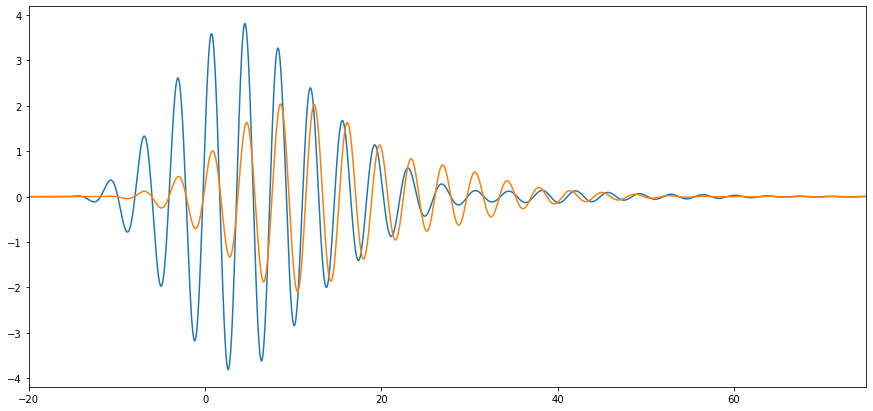
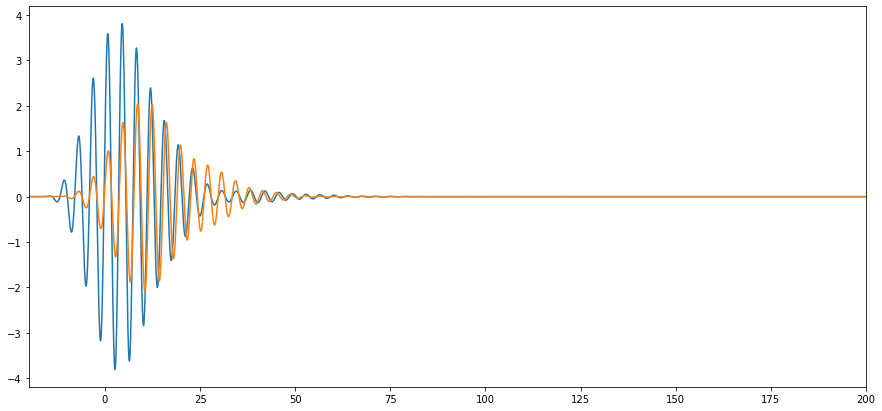
Update documentation

diff --git a/searchindex.js b/searchindex.js
@@ -1,1 +1,1 @@
-Search.setIndex({docnames:["NOTE-2022-03-30-short-cable-impedance-tline-vs-lumped-element/ipynb/note","NOTE-2022-04-04-hemoglobin-refractive-index-vis-nir/ipynb/note","NOTE-2022-04-12-surface-plasmon-polariton-mode-dispersion/ipynb/note","NOTE-2022-11-27-coupled-oscillators/ipynb/note-coupled-electronic-oscillators","intro"],envversion:{"sphinx.domains.c":2,"sphinx.domains.changeset":1,"sphinx.domains.citation":1,"sphinx.domains.cpp":4,"sphinx.domains.index":1,"sphinx.domains.javascript":2,"sphinx.domains.math":2,"sphinx.domains.python":3,"sphinx.domains.rst":2,"sphinx.domains.std":2,"sphinx.ext.intersphinx":1,"sphinxcontrib.bibtex":9,sphinx:56},filenames:["NOTE-2022-03-30-short-cable-impedance-tline-vs-lumped-element/ipynb/note.ipynb","NOTE-2022-04-04-hemoglobin-refractive-index-vis-nir/ipynb/note.ipynb","NOTE-2022-04-12-surface-plasmon-polariton-mode-dispersion/ipynb/note.ipynb","NOTE-2022-11-27-coupled-oscillators/ipynb/note-coupled-electronic-oscillators.ipynb","intro.md"],objects:{},objnames:{},objtypes:{},terms:{"0":[1,3],"0001596883604688631":1,"0003276370399088923":1,"00044974056016454784":1,"0005":1,"00075":3,"001":3,"0012860219407195951":1,"0018672741066254246":1,"0019050":3,"0022849466126867255":1,"003":1,"0032017439368348674":1,"005":1,"02":3,"028102":1,"0423123685089879":1,"05":[1,3],"05065286186732952":1,"055001":1,"06384447614514038":3,"075":3,"08":1,"08749002311336371":1,"0x7f358df5abe0":[],"0x7f3c68b2cee0":[],"0x7f42e42b82e0":[],"0x7f894c6b4bb0":[],"0x7f94f4eb1550":3,"0x7f9ee4825b80":[],"0x7fa820354a00":[],"0x7faf1a2a6fd0":[],"0x7fbeec5f5940":[],"0x7fca0d4cbfd0":[],"1":[1,3],"10":[1,3],"100":3,"1000":3,"10000":3,"100000":3,"10071405367043634":1,"10e":3,"1100":3,"1103":1,"1117":1,"1170":3,"1200":[],"1243790859791647":1,"1298":3,"13":3,"135":3,"1364":1,"14":[1,3],"14704537168607396":1,"15":3,"150":1,"15e":[],"17":3,"18":[1,3],"18889927026316364":1,"1e":[1,3],"1e12":3,"1e3":3,"1e9":3,"1j":[1,3],"2":[1,3],"20":3,"200":3,"2004":1,"2013":1,"2021":1,"225":3,"23":3,"25":3,"250":[],"25663706e":3,"3":[1,3],"300":[1,3],"3000":3,"303":1,"306846395875313":1,"35":3,"375":1,"38":1,"388":1,"392":1,"3d":3,"4":[1,3],"40":3,"400":1,"4000":[],"405":1,"4070597404994256":1,"424549":1,"425726398284944":1,"450":1,"5":[1,3],"50":3,"500":[],"5000":1,"50000":1,"515":3,"56792830490946j":3,"6":3,"600":[],"631259334585216":3,"64":3,"64500":1,"673970424077956":1,"7":[1,3],"7360986753257135":1,"75":3,"7948599085013563":1,"8":[1,3],"800":1,"848645349512824":1,"85418782e":3,"9":[1,3],"92":1,"9204617175718748":1,"93":1,"9309077417124625":1,"do":3,"final":1,"float":3,"import":[1,3],"int":1,"return":[1,3],"short":4,"static":3,"true":[],"while":[2,3],A:1,For:3,If:3,In:[1,2,3],It:[0,1,3],One:3,That:3,The:[0,1,3],Their:1,Then:1,There:1,These:[3,4],__init__:3,_eps_inf:1,_frq1:1,_frq:1,_gam1:1,_gam:1,_rang:1,_sig1:1,_sig:1,_susc:1,aalder:1,ab:[1,3],about:[1,2,3],abov:[1,3],absorpt:1,across:3,actual:3,ad:1,add:3,add_subplot:[1,3],address:1,adjust:3,after:3,aim:1,all:[1,3],along:[1,2],alpha:[1,3],alreadi:3,also:[1,3],alwai:0,amount:3,an:3,anaconda3:3,analysi:[2,3,4],ani:[1,3],append:[1,3],appendix:1,appli:[1,3],approach:[0,1,2,3],approxim:[3,4],ar:[0,1,3,4],arg:1,arrai:[1,3],asarrai:3,associ:1,assum:[],attach:[],ax1:[1,3],ax2:[1,3],ax:3,axi:3,b:[1,3],backward:3,base:[1,3],bear:3,behav:3,below:[1,3],bend:3,berggren:1,beta:[1,3],better:3,between:3,bi:1,biconcav:1,biolog:1,biomed:1,block:1,blood:4,blue:1,both:[0,1,3],brett:1,bucklei:1,buckleynanoantennadesignenhanced2021:1,build:3,c11:1,c1:3,c21:1,c2:3,c:[1,3],cabl:4,calcul:0,can:[1,3],cannot:[],capabl:3,capacit:3,capacitor:3,capict:3,captur:3,cari:3,carrier:1,cast:3,cbook:3,cc:[1,3],ceil:1,cell:4,central:[1,3],characterist:3,choic:3,circuit:3,cite:1,clean:3,close:3,coax:0,code:[1,3],coeffici:1,collect:4,color:1,comparison:3,complet:1,complex:[1,3],complexwarn:3,comput:1,constant:3,contain:1,conveni:[1,3],converg:1,convert:4,core:1,correspond:3,cos2puls:3,coudl:3,could:[1,3],coupl:4,coupler:3,couplinb:[],cours:3,cp:3,creat:3,csv:1,cubic:1,current:1,d:[1,3],dai:4,data:3,dataset:1,de:1,decai:3,def:1,defin:[1,3],deform:1,delai:3,delet:[],denot:3,depend:1,deriv:[1,4],describ:[1,3],descript:3,design:1,desir:1,determin:[1,3],develop:1,devic:3,differ:[1,3],directli:[1,3],diretli:3,dirk:1,discard:3,discuss:1,dispers:[1,4],distanc:3,dkeathlei:3,document:1,doi:1,don:0,done:1,drew:1,drive:3,dt:3,due:3,durat:3,dw_int:1,dw_prime:1,e:[1,3],e_suscept:1,each:3,easi:0,easili:[1,3],effect:3,egbert:1,electr:3,electromagnet:[1,2,3],electron:4,element:[3,4],emphas:3,enhanc:1,enough:1,entir:1,envelop:1,ep:1,eps0:3,eps_calc:1,eps_drude_lorentz:1,eps_mea:1,eps_meas_o2:1,eps_opt:1,eps_opt_o2:1,epsilon:1,epsilon_0:3,epsr:3,eq:1,equat:3,equival:1,esp:3,essenti:3,evalu:1,eventu:2,everi:3,everyth:3,exact:[],examin:[0,3],execut:4,exp:3,experi:3,experiment:[1,3],experimenta:3,extend:[1,3],f:3,f_k:1,faber:1,factor:1,far:3,fc:3,fdtd:1,femtosecond:3,fft:3,fftfreq:3,field:[1,3],fig:[1,3],figur:[1,3],file:1,find:[1,2],finit:3,first:1,fit:3,fix:1,flip:1,focu:[1,2],follow:[1,2],fontsiz:3,form:1,formal:3,format:1,forward:3,found:1,free:[],freespac:3,freqrang:1,frequenc:1,frq:1,full:[1,3,4],fwhm:3,g:[1,3],gam:1,gamma1:3,gamma2:3,gamma:[1,3],gemert:1,gener:[0,1,2,3],get:3,given:3,go:[1,3],greater:1,green:1,h:3,handwritten:4,have:[1,3],hb:1,hb_eps_inf:1,hb_extinction_data:1,hb_frq1:1,hb_frq2:1,hb_frq3:1,hb_gam1:1,hb_gam2:1,hb_gam3:1,hb_rang:1,hb_sig1:1,hb_sig2:1,hb_sig3:1,hb_susc:1,hbo2:1,hbo2_eps_inf:1,hbo2_frq1:1,hbo2_frq2:1,hbo2_frq3:1,hbo2_frq4:1,hbo2_gam1:1,hbo2_gam2:1,hbo2_gam3:1,hbo2_gam4:1,hbo2_rang:1,hbo2_sig1:1,hbo2_sig2:1,hbo2_sig3:1,hbo2_sig4:1,hbo2_susc:1,help:2,hemoglobin:4,here:[1,3],high:3,highlight:1,home:3,hooper:1,hope:4,host:1,how:1,howev:[0,1,3],hyperspectr:1,i12f:3,i1:3,i1f:3,i21f:3,i2:3,i2f:3,i3f:3,i4f:3,i:[0,1,2,3,4],ifft:3,ik:1,imag:[1,3],imaginari:3,imbed:1,imped:[3,4],incid:3,includ:[1,3],incorpor:1,increas:1,incred:3,index:4,induc:3,induct:3,inform:1,input:[1,3],insid:1,instanc:1,instead:3,integr:1,integrand_1:1,integrand_2:1,integrand_3:1,interest:1,interfac:2,interp1d:1,interpol:1,introductori:3,invari:1,io:1,its:3,j:1,jbo:1,josa:1,josab:1,journal:1,juli:1,just:[0,1],k_hb:1,k_hb_prime_1:1,k_hb_prime_2:1,k_hb_prime_3:1,k_hbo2:1,kappa:1,karl:1,keathlei:1,keep:3,kind:1,known:1,kramer:4,kronig:4,l1:3,l2:3,l:3,label:[1,3],labels:3,laboratori:[1,3],lambda_:3,later:3,lb1:3,lb2:3,lc:3,least:3,least_squar:1,leeuwen:1,left:3,legend:[1,3],lei:1,length:3,letter:1,lib:3,light:[1,3],like:[1,3],limit:0,linalg:3,line:4,linear:3,linspac:[1,3],liter:1,load:[1,3],loadmat:1,log:3,longer:3,look:3,lorentziansuscept:1,loss:3,lp:3,lt1:3,lt2:3,lump:[3,4],m:[1,3],macroscop:3,mai:[1,3,4],make:3,mani:1,martin:1,mat:1,mat_nam:1,match:3,mathrm:3,matplotlib:[1,3],matrix:1,mauric:1,max:[1,3],max_nfev:1,mean:1,measur:1,medium:1,method:1,microscop:1,might:4,mik:1,min:1,mind:3,mode:4,model:[1,3],modifi:3,monoton:1,more:[0,3],motiv:3,move:3,mp:1,mu0:3,mu_0:3,mu_:1,must:1,my:4,n:[1,3],n_0:1,n_1:1,n_2:1,n_3:1,n_kk:1,n_prime:1,n_prime_o2:1,nanoantenna:1,nanomet:3,natur:3,nd:3,need:[1,3],network:3,never:3,nm:1,normal:1,note:[0,1,2],notebook:4,now:[1,3],np:[1,3],num:1,number:1,numer:1,numpi:[1,3],o:1,observ:3,offer:1,offset:1,often:1,omega:[1,3],onc:[],one:[1,4],onli:[1,3],optic:1,optim:1,oscil:4,other:[1,4],our:3,outlin:3,output:1,over:[1,3],p0:1,p1:3,p2:3,p:1,p_set:1,packag:[1,3],pair:3,paramet:[1,3],paramt:3,part:[1,3],particular:1,particularli:1,past:3,path:[1,3],pcsi:1,pdf:[0,4],perfect:3,perform:1,permeabl:3,permitt:[1,3],phase:[1,3],phasedelai:3,phenomenolog:3,phillip:1,physic:[1,3],physical_constants_si:1,physrevlett:1,pi:[1,3],ping:1,place:3,planar:2,plasmon:[3,4],plot3d:3,plot:[1,3],plt:[1,3],point:[1,3],polariton:4,possibl:3,power:3,prahl:1,predict:3,principl:3,print:[1,3],problem:3,proce:[],procedur:[1,3],profil:3,project:3,propag:3,properti:[1,3],proport:3,provid:1,pulse_funct:3,pure:3,purpos:1,py:3,pyplot:[1,3],python3:3,quantit:[1,3],quit:3,r1:3,r2:3,r:3,radiat:3,rang:1,rb1:3,rb2:3,rc:3,re:[1,3],real:[1,3],realiti:3,realli:3,recov:[],red:4,refer:3,reflect:3,refract:4,relev:3,remain:3,remaind:1,res_o2:1,resembl:3,reset:1,residu:1,resist:3,resolut:1,resolv:1,reson:3,respect:1,respons:3,review:1,right:3,rt1:3,rt2:3,same:[0,1],satur:1,scale:[1,3],scatter:1,scipi:1,sco:1,scott:1,second:1,section:1,see:[0,1,3],seem:3,seen:3,sens:3,sensit:1,septemb:1,seri:1,sert:3,set:[1,3],set_size_inch:[1,3],set_titl:3,set_xlabel:[1,3],set_xlim:3,set_ylabel:[1,3],setup:1,sever:3,shape:[1,3],should:[1,3],shouldn:0,show:[0,1],shown:3,side:3,sig:1,sigma:1,similar:3,simpli:[1,4],simplifi:3,simul:1,sinc:[0,3],singl:1,sio:1,site:3,size:[1,3],sketch:3,small:1,so:[1,3],solut:1,solutiond:1,solv:3,some:4,sourc:3,space:[1,3],specif:1,specimen:1,spectra:1,speed:3,split:3,sqrt:[1,3],squared_error:1,squeez:1,start:3,step:[1,3],str:1,straightforward:0,strike:3,studi:3,style:4,subscript:3,substanc:1,suggest:1,sum1:1,sum2:1,sum3:1,surfac:4,suscept:1,sy:[1,3],system:3,t:[1,4],tabl:3,take:1,taken:3,tau1:3,tau2:3,tau:3,tempor:3,term:1,tese:[],text:3,than:1,thei:[1,3],them:[],thi:[0,1,2,3],thing:3,think:[2,3],third:1,those:[1,3],though:3,three:1,through:1,thu:1,tick_param:3,time:[1,3],todo:3,togeth:3,ton:1,tool:1,transmiss:0,transpos:3,trapz:1,travel:2,tune:3,twice:3,two:[0,1],um_scal:1,unit:1,unoxygen:1,up:3,us:[0,3,4],v1:3,v1f:3,v1o:3,v1of:3,v2:3,v2f:3,v2o:3,v2of:3,v:3,v_1:3,v_2:3,v_:3,valid_freq_rang:1,valu:3,van:1,variabl:3,varieti:1,vector:1,veloc:3,veri:[1,3],vg12:3,vg12f:3,vg1:3,vg1f:3,vg1t:3,vg21:3,vg21f:3,vg2:3,vg2f:3,vg2t:3,view_init:3,vin1:3,vin1f:3,vin2:3,vin2f:3,vo12:[],vo12f:3,vo21:[],vo21f:3,voltag:3,vp1f:[],vp2f:[],vplus1f:3,vplus2f:3,vs:4,w1:3,w2:3,w:[1,3],w_0:1,w_norm:1,w_norm_0:1,w_norm_ev:1,w_norm_p1:1,w_norm_p2:1,w_norm_prime_1:1,w_norm_prime_2:1,w_norm_prime_3:1,w_prime:1,wa:1,wai:1,want:1,waveform:3,wavelength:[1,3],wc:3,we:[1,3],websit:1,well:3,were:3,what:[1,3],when:3,where:[1,3],wherev:3,which:3,whole:1,why:[0,3],widget:3,width:3,wire:3,work:[3,4],workspac:1,wres1:3,wres2:3,x:[1,3],xlabel:[1,3],xlim:3,xtol:1,y:1,y_0:1,y_high:1,y_min:1,y_rang:1,yang:1,yc:3,ylabel:[1,3],ylim:1,you:[0,1],yres1:3,yres2:3,yugu:1,yujia:1,z0:3,z1:3,z2:3,z_0:3,zb1:3,zb2:3,zc:3,zero:[1,3],zin1:3,zin2:3,zl1:3,zl2:3,zp1:3,zp2:3,zt1:3,zt2:3},titles:["Short Cable Impedance \u2013 T-Line vs. Lumped Element Approximation","Kramers Kronig Analysis and Refractive Index of Hemoglobin/Red Blood Cells","Surface Plasmon Polariton Mode Dispersion with Derivation","Coupled Electronic Oscillators","Technical Notes to Self"],titleterms:{"04":3,"12":3,"2022":3,"case":1,"function":1,"short":0,A:3,At:3,With:3,analysi:1,antenna:3,approxim:0,attach:[],blood:1,cabl:0,calcul:[1,3],cell:1,circuit:[],connect:3,content:4,convers:3,coupl:3,data:1,definit:1,deoxygen:1,deriv:2,descript:[0,1],dispers:2,document:0,drude:1,electron:3,element:0,excit:3,extinct:1,first:3,fit:1,follow:3,from:[1,3],fs:3,guess:3,header:1,hemoglobin:1,imped:0,index:1,initi:3,introduct:1,k:1,kramer:1,kronig:1,lead:3,line:[0,3],lorentz:1,lump:0,materi:1,meep:1,mode:2,nm:3,note:[3,4],oscil:[1,3],oxygen:1,place:[],plasmon:2,polariton:2,properti:[],puls:3,red:1,refer:1,refract:1,relat:1,resistor:3,rlc:3,s:3,self:4,setup:3,si:3,simul:3,singl:3,surfac:2,t:[0,3],tabl:4,technic:4,through:3,transmiss:3,twin:3,two:3,unit:3,us:1,valu:1,via:3,vs:0,wave:3,waveform:[]}})
+Search.setIndex({docnames:["NOTE-2022-03-30-short-cable-impedance-tline-vs-lumped-element/ipynb/note","NOTE-2022-04-04-hemoglobin-refractive-index-vis-nir/ipynb/note","NOTE-2022-04-12-surface-plasmon-polariton-mode-dispersion/ipynb/note","NOTE-2022-11-27-coupled-oscillators/ipynb/note-coupled-electronic-oscillators","intro"],envversion:{"sphinx.domains.c":2,"sphinx.domains.changeset":1,"sphinx.domains.citation":1,"sphinx.domains.cpp":4,"sphinx.domains.index":1,"sphinx.domains.javascript":2,"sphinx.domains.math":2,"sphinx.domains.python":3,"sphinx.domains.rst":2,"sphinx.domains.std":2,"sphinx.ext.intersphinx":1,"sphinxcontrib.bibtex":9,sphinx:56},filenames:["NOTE-2022-03-30-short-cable-impedance-tline-vs-lumped-element/ipynb/note.ipynb","NOTE-2022-04-04-hemoglobin-refractive-index-vis-nir/ipynb/note.ipynb","NOTE-2022-04-12-surface-plasmon-polariton-mode-dispersion/ipynb/note.ipynb","NOTE-2022-11-27-coupled-oscillators/ipynb/note-coupled-electronic-oscillators.ipynb","intro.md"],objects:{},objnames:{},objtypes:{},terms:{"0":[1,3],"0001596883604688631":1,"0003276370399088923":1,"00044974056016454784":1,"0005":1,"00075":3,"001":3,"0012860219407195951":1,"0018672741066254246":1,"0019050":3,"0022849466126867255":1,"003":1,"0032017439368348674":1,"005":1,"02":3,"028102":1,"0423123685089879":1,"05":[1,3],"05065286186732952":1,"055001":1,"06384447614514038":3,"075":3,"08":1,"08749002311336371":1,"0x7f358df5abe0":[],"0x7f3c68b2cee0":[],"0x7f42e42b82e0":[],"0x7f617f21a7f0":3,"0x7f894c6b4bb0":[],"0x7f94f4eb1550":[],"0x7f9ee4825b80":[],"0x7fa820354a00":[],"0x7faf1a2a6fd0":[],"0x7fbeec5f5940":[],"0x7fca0d4cbfd0":[],"1":[1,3],"10":[1,3],"100":3,"1000":3,"10000":3,"100000":3,"10071405367043634":1,"10e":3,"1100":3,"1103":1,"1117":1,"1170":3,"1200":[],"1243790859791647":1,"1298":3,"13":3,"135":3,"1364":1,"14":[1,3],"14704537168607396":1,"15":3,"150":1,"15e":[],"17":3,"18":[1,3],"18889927026316364":1,"1e":[1,3],"1e12":3,"1e3":3,"1e9":3,"1j":[1,3],"2":[1,3],"20":3,"200":3,"2004":1,"2013":1,"2021":1,"225":3,"23":3,"25":3,"250":[],"25663706e":3,"3":[1,3],"300":[1,3],"3000":3,"303":1,"306846395875313":1,"35":3,"375":1,"38":1,"388":1,"392":1,"3d":3,"4":[1,3],"40":3,"400":1,"4000":[],"405":1,"4070597404994256":1,"424549":1,"425726398284944":1,"450":1,"5":[1,3],"50":3,"500":[],"5000":1,"50000":1,"515":3,"56792830490946j":3,"6":3,"600":[],"631259334585216":3,"64":3,"64500":1,"673970424077956":1,"7":[1,3],"7360986753257135":1,"75":[],"7948599085013563":1,"8":[1,3],"800":1,"848645349512824":1,"85418782e":3,"9":[1,3],"92":1,"9204617175718748":1,"93":1,"9309077417124625":1,"do":3,"final":1,"float":3,"import":[1,3],"int":1,"return":[1,3],"short":4,"static":3,"true":[],"while":[2,3],A:1,For:3,If:3,In:[1,2,3],It:[0,1,3],One:3,That:3,The:[0,1,3],Their:1,Then:1,There:1,These:[3,4],__init__:3,_eps_inf:1,_frq1:1,_frq:1,_gam1:1,_gam:1,_rang:1,_sig1:1,_sig:1,_susc:1,aalder:1,ab:[1,3],about:[1,2,3],abov:[1,3],absorpt:1,across:3,actual:3,ad:1,add:3,add_subplot:[1,3],address:1,adjust:3,after:3,aim:1,all:[1,3],along:[1,2],alpha:[1,3],alreadi:3,also:[1,3],alwai:0,amount:3,an:3,anaconda3:3,analysi:[2,3,4],ani:[1,3],append:[1,3],appendix:1,appli:[1,3],approach:[0,1,2,3],approxim:[3,4],ar:[0,1,3,4],arg:1,arrai:[1,3],asarrai:3,associ:1,assum:[],attach:[],ax1:[1,3],ax2:[1,3],ax:3,axi:3,b:[1,3],backward:3,base:[1,3],bear:3,behav:3,below:[1,3],bend:3,berggren:1,beta:[1,3],better:3,between:3,bi:1,biconcav:1,biolog:1,biomed:1,block:1,blood:4,blue:1,both:[0,1,3],brett:1,bucklei:1,buckleynanoantennadesignenhanced2021:1,build:3,c11:1,c1:3,c21:1,c2:3,c:[1,3],cabl:4,calcul:0,can:[1,3],cannot:[],capabl:3,capacit:3,capacitor:3,capict:3,captur:3,cari:3,carrier:1,cast:3,cbook:3,cc:[1,3],ceil:1,cell:4,central:[1,3],characterist:3,choic:3,circuit:3,cite:1,clean:3,close:3,coax:0,code:[1,3],coeffici:1,collect:4,color:1,comparison:3,complet:1,complex:[1,3],complexwarn:3,comput:1,constant:3,contain:1,conveni:[1,3],converg:1,convert:4,core:1,correspond:3,cos2puls:3,coudl:3,could:[1,3],coupl:4,coupler:3,couplinb:[],cours:3,cp:3,creat:3,csv:1,cubic:1,current:1,d:[1,3],dai:4,data:3,dataset:1,de:1,decai:3,def:1,defin:[1,3],deform:1,delai:3,delet:[],denot:3,depend:1,deriv:[1,4],describ:[1,3],descript:3,design:1,desir:1,determin:[1,3],develop:1,devic:3,differ:[1,3],directli:[1,3],diretli:3,dirk:1,discard:3,discuss:1,dispers:[1,4],distanc:3,dkeathlei:3,document:1,doi:1,don:0,done:1,drew:1,drive:3,dt:3,due:3,durat:3,dw_int:1,dw_prime:1,e:[1,3],e_suscept:1,each:3,easi:0,easili:[1,3],effect:3,egbert:1,electr:3,electromagnet:[1,2,3],electron:4,element:[3,4],emphas:3,enhanc:1,enough:1,entir:1,envelop:1,ep:1,eps0:3,eps_calc:1,eps_drude_lorentz:1,eps_mea:1,eps_meas_o2:1,eps_opt:1,eps_opt_o2:1,epsilon:1,epsilon_0:3,epsr:3,eq:1,equat:3,equival:1,esp:3,essenti:3,evalu:1,eventu:2,everi:3,everyth:3,exact:[],examin:[0,3],execut:4,exp:3,experi:3,experiment:[1,3],experimenta:3,extend:[1,3],f:3,f_k:1,faber:1,factor:1,far:3,fc:3,fdtd:1,femtosecond:3,fft:3,fftfreq:3,field:[1,3],fig:[1,3],figur:[1,3],file:1,find:[1,2],finit:3,first:1,fit:3,fix:1,flip:1,focu:[1,2],follow:[1,2],fontsiz:3,form:1,formal:3,format:1,forward:3,found:1,free:[],freespac:3,freqrang:1,frequenc:1,frq:1,full:[1,3,4],fwhm:3,g:[1,3],gam:1,gamma1:3,gamma2:3,gamma:[1,3],gemert:1,gener:[0,1,2,3],get:3,given:3,go:[1,3],greater:1,green:1,h:3,handwritten:4,have:[1,3],hb:1,hb_eps_inf:1,hb_extinction_data:1,hb_frq1:1,hb_frq2:1,hb_frq3:1,hb_gam1:1,hb_gam2:1,hb_gam3:1,hb_rang:1,hb_sig1:1,hb_sig2:1,hb_sig3:1,hb_susc:1,hbo2:1,hbo2_eps_inf:1,hbo2_frq1:1,hbo2_frq2:1,hbo2_frq3:1,hbo2_frq4:1,hbo2_gam1:1,hbo2_gam2:1,hbo2_gam3:1,hbo2_gam4:1,hbo2_rang:1,hbo2_sig1:1,hbo2_sig2:1,hbo2_sig3:1,hbo2_sig4:1,hbo2_susc:1,help:2,hemoglobin:4,here:[1,3],high:3,highlight:1,home:3,hooper:1,hope:4,host:1,how:1,howev:[0,1,3],hyperspectr:1,i12f:3,i1:3,i1f:3,i21f:3,i2:3,i2f:3,i3f:3,i4f:3,i:[0,1,2,3,4],ifft:3,ik:1,imag:[1,3],imaginari:3,imbed:1,imped:[3,4],incid:3,includ:[1,3],incorpor:1,increas:1,incred:3,index:4,induc:3,induct:3,inform:1,input:[1,3],insid:1,instanc:1,instead:3,integr:1,integrand_1:1,integrand_2:1,integrand_3:1,interest:1,interfac:2,interp1d:1,interpol:1,introductori:3,invari:1,io:1,its:3,j:1,jbo:1,josa:1,josab:1,journal:1,juli:1,just:[0,1],k_hb:1,k_hb_prime_1:1,k_hb_prime_2:1,k_hb_prime_3:1,k_hbo2:1,kappa:1,karl:1,keathlei:1,keep:3,kind:1,known:1,kramer:4,kronig:4,l1:3,l2:3,l:3,label:[1,3],labels:3,laboratori:[1,3],lambda_:3,later:3,lb1:3,lb2:3,lc:3,least:3,least_squar:1,leeuwen:1,left:3,legend:[1,3],lei:1,length:3,letter:1,lib:3,light:[1,3],like:[1,3],limit:0,linalg:3,line:4,linear:3,linspac:[1,3],liter:1,load:[1,3],loadmat:1,log:3,longer:3,look:3,lorentziansuscept:1,loss:3,lp:3,lt1:3,lt2:3,lump:[3,4],m:[1,3],macroscop:3,mai:[1,3,4],make:3,mani:1,martin:1,mat:1,mat_nam:1,match:3,mathrm:3,matplotlib:[1,3],matrix:1,mauric:1,max:[1,3],max_nfev:1,mean:1,measur:1,medium:1,method:1,microscop:1,might:4,mik:1,min:1,mind:3,mode:4,model:[1,3],modifi:3,monoton:1,more:[0,3],motiv:3,move:3,mp:1,mu0:3,mu_0:3,mu_:1,must:1,my:4,n:[1,3],n_0:1,n_1:1,n_2:1,n_3:1,n_kk:1,n_prime:1,n_prime_o2:1,nanoantenna:1,nanomet:3,natur:3,nd:3,need:[1,3],network:3,never:3,nm:1,normal:1,note:[0,1,2],notebook:4,now:[1,3],np:[1,3],num:1,number:1,numer:1,numpi:[1,3],o:1,observ:3,offer:1,offset:1,often:1,omega:[1,3],onc:[],one:[1,4],onli:[1,3],optic:1,optim:1,oscil:4,other:[1,4],our:3,outlin:3,output:1,over:[1,3],p0:1,p1:3,p2:3,p:1,p_set:1,packag:[1,3],pair:3,paramet:[1,3],paramt:3,part:[1,3],particular:1,particularli:1,past:3,path:[1,3],pcsi:1,pdf:[0,4],perfect:3,perform:1,permeabl:3,permitt:[1,3],phase:[1,3],phasedelai:3,phenomenolog:3,phillip:1,physic:[1,3],physical_constants_si:1,physrevlett:1,pi:[1,3],ping:1,place:3,planar:2,plasmon:[3,4],plot3d:3,plot:[1,3],plt:[1,3],point:[1,3],polariton:4,possibl:3,power:3,prahl:1,predict:3,principl:3,print:[1,3],problem:3,proce:[],procedur:[1,3],profil:3,project:3,propag:3,properti:[1,3],proport:3,provid:1,pulse_funct:3,pure:3,purpos:1,py:3,pyplot:[1,3],python3:3,quantit:[1,3],quit:3,r1:3,r2:3,r:3,radiat:3,rang:1,rb1:3,rb2:3,rc:3,re:[1,3],real:[1,3],realiti:3,realli:3,recov:[],red:4,refer:3,reflect:3,refract:4,relev:3,remain:3,remaind:1,res_o2:1,resembl:3,reset:1,residu:1,resist:3,resolut:1,resolv:1,reson:3,respect:1,respons:3,review:1,right:3,rt1:3,rt2:3,same:[0,1],satur:1,scale:[1,3],scatter:1,scipi:1,sco:1,scott:1,second:1,section:1,see:[0,1,3],seem:3,seen:3,sens:3,sensit:1,septemb:1,seri:1,sert:3,set:[1,3],set_size_inch:[1,3],set_titl:3,set_xlabel:[1,3],set_xlim:3,set_ylabel:[1,3],setup:1,sever:3,shape:[1,3],should:[1,3],shouldn:0,show:[0,1],shown:3,side:3,sig:1,sigma:1,similar:3,simpli:[1,4],simplifi:3,simul:1,sinc:[0,3],singl:1,sio:1,site:3,size:[1,3],sketch:3,small:1,so:[1,3],solut:1,solutiond:1,solv:3,some:4,sourc:3,space:[1,3],specif:1,specimen:1,spectra:1,speed:3,split:3,sqrt:[1,3],squared_error:1,squeez:1,start:3,step:[1,3],str:1,straightforward:0,strike:3,studi:3,style:4,subscript:3,substanc:1,suggest:1,sum1:1,sum2:1,sum3:1,surfac:4,suscept:1,sy:[1,3],system:3,t:[1,4],tabl:3,take:1,taken:3,tau1:3,tau2:3,tau:3,tempor:3,term:1,tese:[],text:3,than:1,thei:[1,3],them:[],thi:[0,1,2,3],thing:3,think:[2,3],third:1,those:[1,3],though:3,three:1,through:1,thu:1,tick_param:3,time:[1,3],todo:3,togeth:3,ton:1,tool:1,transmiss:0,transpos:3,trapz:1,travel:2,tune:3,twice:3,two:[0,1],um_scal:1,unit:1,unoxygen:1,up:3,us:[0,3,4],v1:3,v1f:3,v1o:3,v1of:3,v2:3,v2f:3,v2o:3,v2of:3,v:3,v_1:3,v_2:3,v_:3,valid_freq_rang:1,valu:3,van:1,variabl:3,varieti:1,vector:1,veloc:3,veri:[1,3],vg12:3,vg12f:3,vg1:3,vg1f:3,vg1t:3,vg21:3,vg21f:3,vg2:3,vg2f:3,vg2t:3,view_init:3,vin1:3,vin1f:3,vin2:3,vin2f:3,vo12:[],vo12f:3,vo21:[],vo21f:3,voltag:3,vp1f:[],vp2f:[],vplus1f:3,vplus2f:3,vs:4,w1:3,w2:3,w:[1,3],w_0:1,w_norm:1,w_norm_0:1,w_norm_ev:1,w_norm_p1:1,w_norm_p2:1,w_norm_prime_1:1,w_norm_prime_2:1,w_norm_prime_3:1,w_prime:1,wa:1,wai:1,want:1,waveform:3,wavelength:[1,3],wc:3,we:[1,3],websit:1,well:3,were:3,what:[1,3],when:3,where:[1,3],wherev:3,which:3,whole:1,why:[0,3],widget:3,width:3,wire:3,work:[3,4],workspac:1,wres1:3,wres2:3,x:[1,3],xlabel:[1,3],xlim:3,xtol:1,y:1,y_0:1,y_high:1,y_min:1,y_rang:1,yang:1,yc:3,ylabel:[1,3],ylim:1,you:[0,1],yres1:3,yres2:3,yugu:1,yujia:1,z0:3,z1:3,z2:3,z_0:3,zb1:3,zb2:3,zc:3,zero:[1,3],zin1:3,zin2:3,zl1:3,zl2:3,zp1:3,zp2:3,zt1:3,zt2:3},titles:["Short Cable Impedance \u2013 T-Line vs. Lumped Element Approximation","Kramers Kronig Analysis and Refractive Index of Hemoglobin/Red Blood Cells","Surface Plasmon Polariton Mode Dispersion with Derivation","Coupled Electronic Oscillators","Technical Notes to Self"],titleterms:{"04":3,"12":3,"2022":3,"case":1,"function":1,"short":0,A:3,At:3,With:3,analysi:1,antenna:3,approxim:0,attach:[],blood:1,cabl:0,calcul:[1,3],cell:1,circuit:[],connect:3,content:4,convers:3,coupl:3,data:1,definit:1,deoxygen:1,deriv:2,descript:[0,1],dispers:2,document:0,drude:1,electron:3,element:0,excit:3,extinct:1,first:3,fit:1,follow:3,from:[1,3],fs:3,guess:3,header:1,hemoglobin:1,imped:0,index:1,initi:3,introduct:1,k:1,kramer:1,kronig:1,lead:3,line:[0,3],lorentz:1,lump:0,materi:1,meep:1,mode:2,nm:3,note:[3,4],oscil:[1,3],oxygen:1,place:[],plasmon:2,polariton:2,properti:[],puls:3,red:1,refer:1,refract:1,relat:1,resistor:3,rlc:3,s:3,self:4,setup:3,si:3,simul:3,singl:3,surfac:2,t:[0,3],tabl:4,technic:4,through:3,transmiss:3,twin:3,two:3,unit:3,us:1,valu:1,via:3,vs:0,wave:3,waveform:[]}})

diff --git a/NOTE-2022-11-27-coupled-oscillators/ipynb/note-coupled-electronic-oscillators.html b/NOTE-2022-11-27-coupled-oscillators/ipynb/note-coupled-electronic-oscillators.html
@@ -640,7 +640,7 @@ const thebe_selector_output = ".output, .cell_output"
 (8.631259334585216+64.56792830490946j)
 </pre></div>
 </div>
-<div class="output text_plain highlight-myst-ansi notranslate"><div class="highlight"><pre><span></span>&lt;matplotlib.legend.Legend at 0x7f94f4eb1550&gt;
+<div class="output text_plain highlight-myst-ansi notranslate"><div class="highlight"><pre><span></span>&lt;matplotlib.legend.Legend at 0x7f617f21a7f0&gt;
 </pre></div>
 </div>
 <img alt="../../_images/note-coupled-electronic-oscillators_6_2.png" src="../../_images/note-coupled-electronic-oscillators_6_2.png" />
@@ -923,12 +923,12 @@ const thebe_selector_output = ".output, .cell_output"
 <span class="c1"># ax1.plot(t, V1/np.abs(V1).max())</span>
 <span class="n">ax1</span><span class="o">.</span><span class="n">plot</span><span class="p">(</span><span class="n">t</span><span class="p">,</span> <span class="n">Vg1</span><span class="p">)</span>
 <span class="n">ax1</span><span class="o">.</span><span class="n">plot</span><span class="p">(</span><span class="n">t</span><span class="p">,</span> <span class="o">-</span><span class="mi">1</span><span class="o">*</span><span class="n">Vg21</span><span class="p">)</span>
-<span class="n">ax1</span><span class="o">.</span><span class="n">set_xlim</span><span class="p">(</span><span class="o">-</span><span class="mi">20</span><span class="p">,</span> <span class="mi">75</span><span class="p">)</span>
+<span class="n">ax1</span><span class="o">.</span><span class="n">set_xlim</span><span class="p">(</span><span class="o">-</span><span class="mi">20</span><span class="p">,</span> <span class="mi">200</span><span class="p">)</span>
 </pre></div>
 </div>
 </div>
 <div class="cell_output docutils container">
-<div class="output text_plain highlight-myst-ansi notranslate"><div class="highlight"><pre><span></span>(-20.0, 75.0)
+<div class="output text_plain highlight-myst-ansi notranslate"><div class="highlight"><pre><span></span>(-20.0, 200.0)
 </pre></div>
 </div>
 <img alt="../../_images/note-coupled-electronic-oscillators_22_1.png" src="../../_images/note-coupled-electronic-oscillators_22_1.png" />
